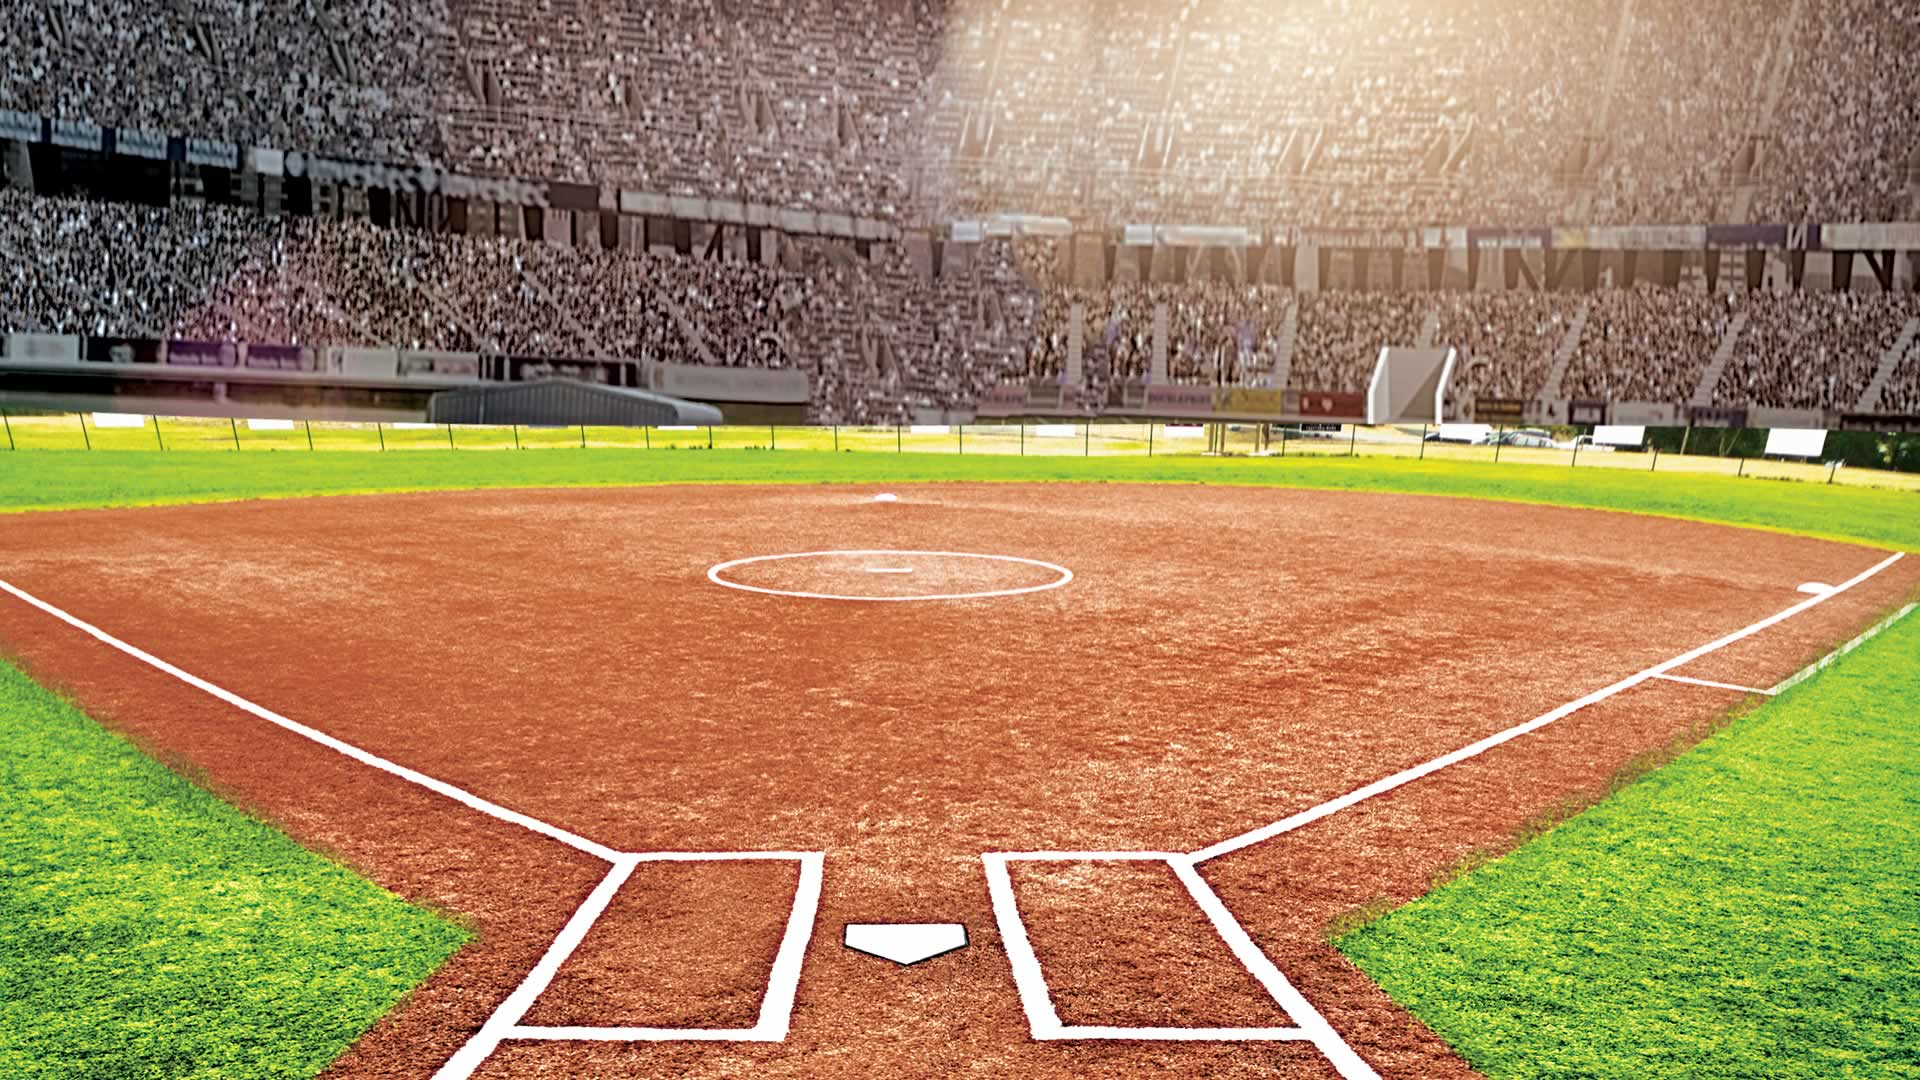
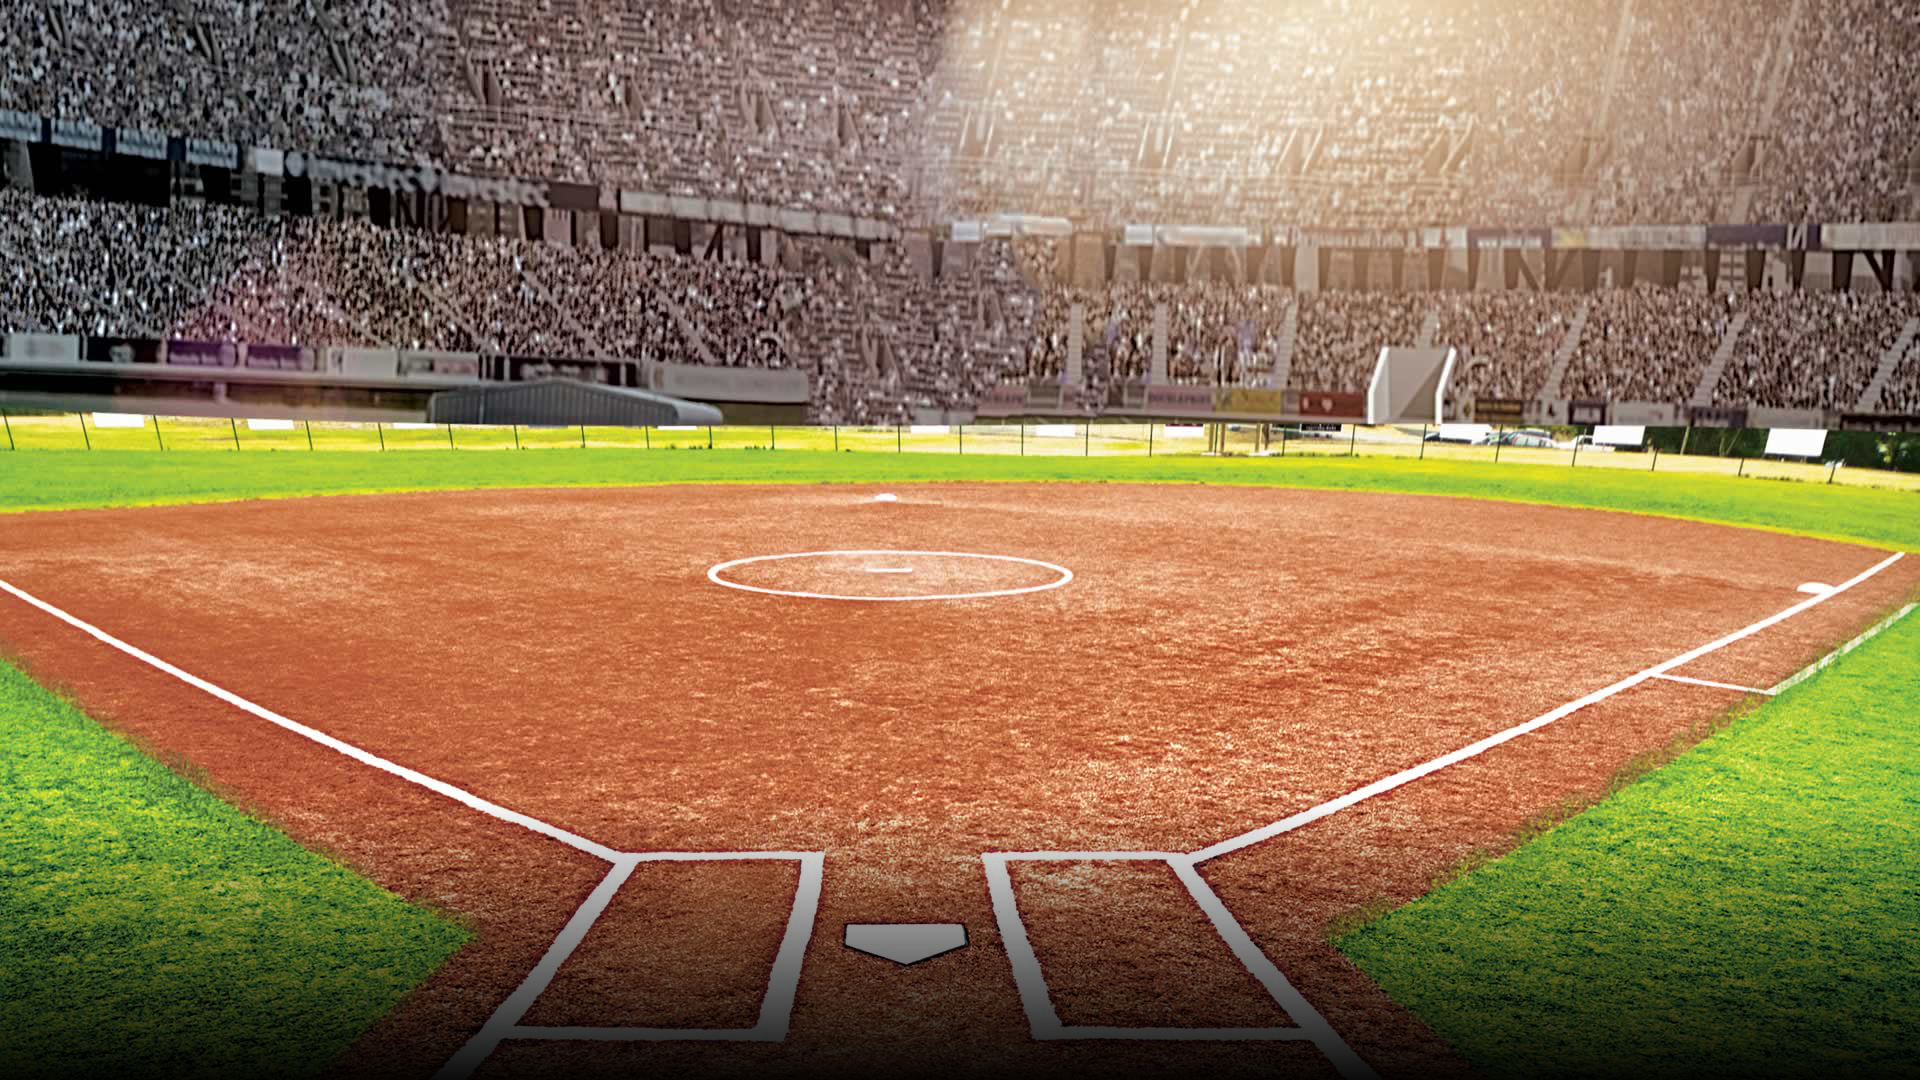
Background image fade

Changed region(s): [[0.0, 0.7639, 1.0, 1.0]]

diff --git a/players.css b/players.css
@@ -1,5 +1,5 @@
 body{
-	background-image:  url(images/diamond2.jpg);
+	background-image:  url(images/diamond2.png);
 }
 .content{
 	width: 100%;
